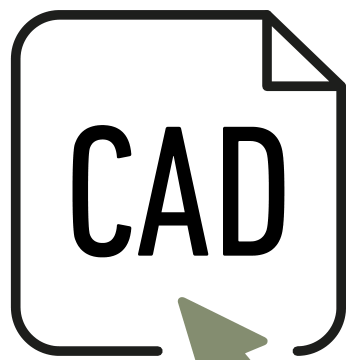
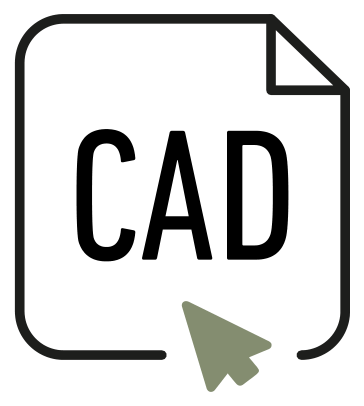
Fichas: íconos completos + botón Manual de Instalación
- Re-extrae LDT/CAD sin cortar el cursor y agrega el ícono Manual (del set .ai)
- Botón Manual de Instalación (abre el PDF en Drive), condicional como LDT/CAD
- Manual se matchea por nombre de agrupación dentro del filename del PDF
  (carpeta de manuales de Drive); 66 fichas con manual

Changed region(s): [[0.0309, 0.0306, 0.9888, 1.0], [0.1854, 0.3056, 0.7725, 1.0], [0.618, 0.3056, 0.8034, 0.7333]]

diff --git a/index.html b/index.html
@@ -7,15 +7,15 @@
 <link rel="preconnect" href="https://fonts.googleapis.com">
 <link rel="preconnect" href="https://fonts.gstatic.com" crossorigin>
 <link rel="stylesheet" href="https://fonts.googleapis.com/css2?family=Barlow:wght@400;500;600;700&family=Barlow+Condensed:wght@500;600;700&display=swap">
-<link rel="stylesheet" href="styles.css?v=94">
-<link rel="stylesheet" href="fichas.css?v=94">
+<link rel="stylesheet" href="styles.css?v=95">
+<link rel="stylesheet" href="fichas.css?v=95">
 </head>
 <body class="locked">
 
 <!-- PANTALLA DE INGRESO (cubre toda la app hasta iniciar sesión) -->
 <div id="gate" class="gate">
   <div class="gate-card">
-    <img src="assets/logo-leuk-ilum.png?v=94" alt="Leuk Iluminación" class="gate-logo">
+    <img src="assets/logo-leuk-ilum.png?v=95" alt="Leuk Iluminación" class="gate-logo">
     <h1>Benchmark competitivo</h1>
     <p class="gate-sub">Ingresá con tu usuario para acceder.</p>
     <input id="gateEmail" type="email" placeholder="Email" autocomplete="username" class="lg-in">
@@ -27,7 +27,7 @@
 
 <header class="topbar">
   <div class="brand">
-    <img src="assets/isologo-uk.png?v=94" alt="Ukelele" class="logo">
+    <img src="assets/isologo-uk.png?v=95" alt="Ukelele" class="logo">
     <span class="brand-sub">Benchmark competitivo</span>
   </div>
   <div class="top-right">
@@ -89,9 +89,9 @@
 <div id="detail" class="detail hidden"><div class="detail-inner" id="detailInner"></div></div>
 <footer class="foot"><span id="metaLine"></span></footer>
 
-<script src="vendor/xlsx.full.min.js?v=94"></script>
-<script src="app.js?v=94"></script>
-<script src="fichas-data.js?v=94"></script>
-<script src="fichas-ui.js?v=94"></script>
+<script src="vendor/xlsx.full.min.js?v=95"></script>
+<script src="app.js?v=95"></script>
+<script src="fichas-data.js?v=95"></script>
+<script src="fichas-ui.js?v=95"></script>
 </body>
 </html>

diff --git a/fichas.css b/fichas.css
@@ -66,7 +66,7 @@
 #ficha-stage .f-legend i{display:inline-block;width:16px;height:2px;vertical-align:middle;margin-right:6px}
 #ficha-stage .f-note{font-size:8px;color:var(--gray);line-height:1.4}
 #ficha-stage .f-buttons{display:flex;gap:26px;margin-top:4px}
-#ficha-stage .f-btn{text-align:center;text-decoration:none;color:var(--ink)}
+#ficha-stage .f-btn{text-align:center;text-decoration:none;color:var(--ink);max-width:95px}
 #ficha-stage .f-btn img{height:50px;width:auto;display:block;margin:0 auto}
 #ficha-stage .f-btn .lb{font-family:'DINCond',sans-serif;font-size:8.5px;letter-spacing:.5px;line-height:1.15;margin-top:5px;text-transform:uppercase}
 #ficha-stage .f-btn .lb small{display:block;font-family:monospace;font-size:7px;color:var(--gray)}

diff --git a/fichas-ui.js b/fichas-ui.js
@@ -45,6 +45,7 @@
     const btns = [];
     if (a.ldt_url) btns.push(`<a class="f-btn" href="${esc(a.ldt_url)}" download><img src="${ICON}ldt.png"><div class="lb">Archivo LDT</div></a>`);
     if (a.cad_url) btns.push(`<a class="f-btn" href="${esc(a.cad_url)}" download><img src="${ICON}cad.png"><div class="lb">Archivo CAD</div></a>`);
+    if (a.manual_url) btns.push(`<a class="f-btn" href="${esc(a.manual_url)}" target="_blank" rel="noopener"><img src="${ICON}manual.png"><div class="lb">Manual de Instalación</div></a>`);
     const infoComp = btns.length ? `<div><div class="f-h">Información Complementaria</div><div class="f-buttons">${btns.join("")}</div></div>` : "";
     // Datos fotométricos: cada curva se muestra SOLO si existe. Si no hay ninguna,
     // "Información Complementaria" sube a ese lugar.